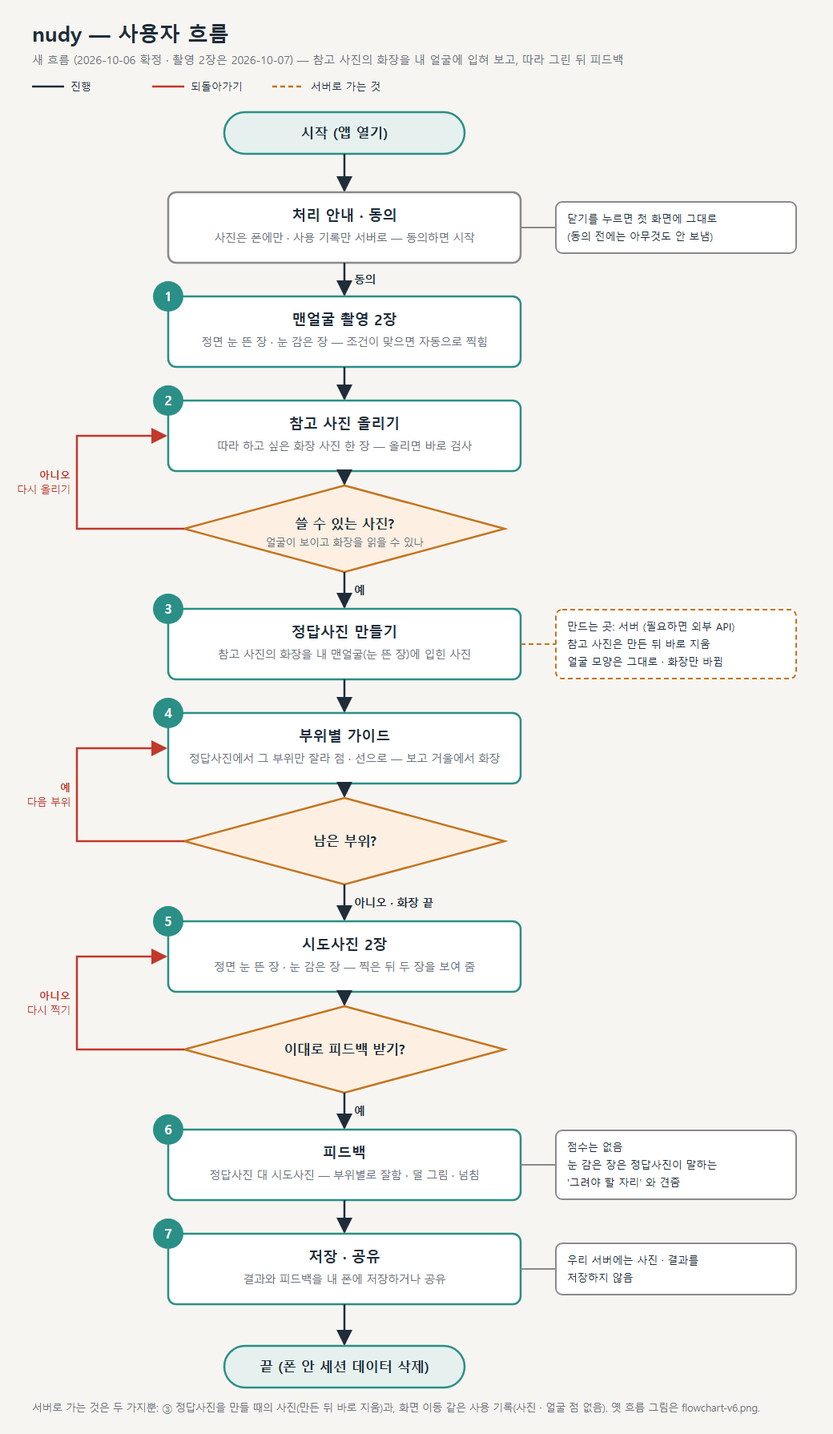
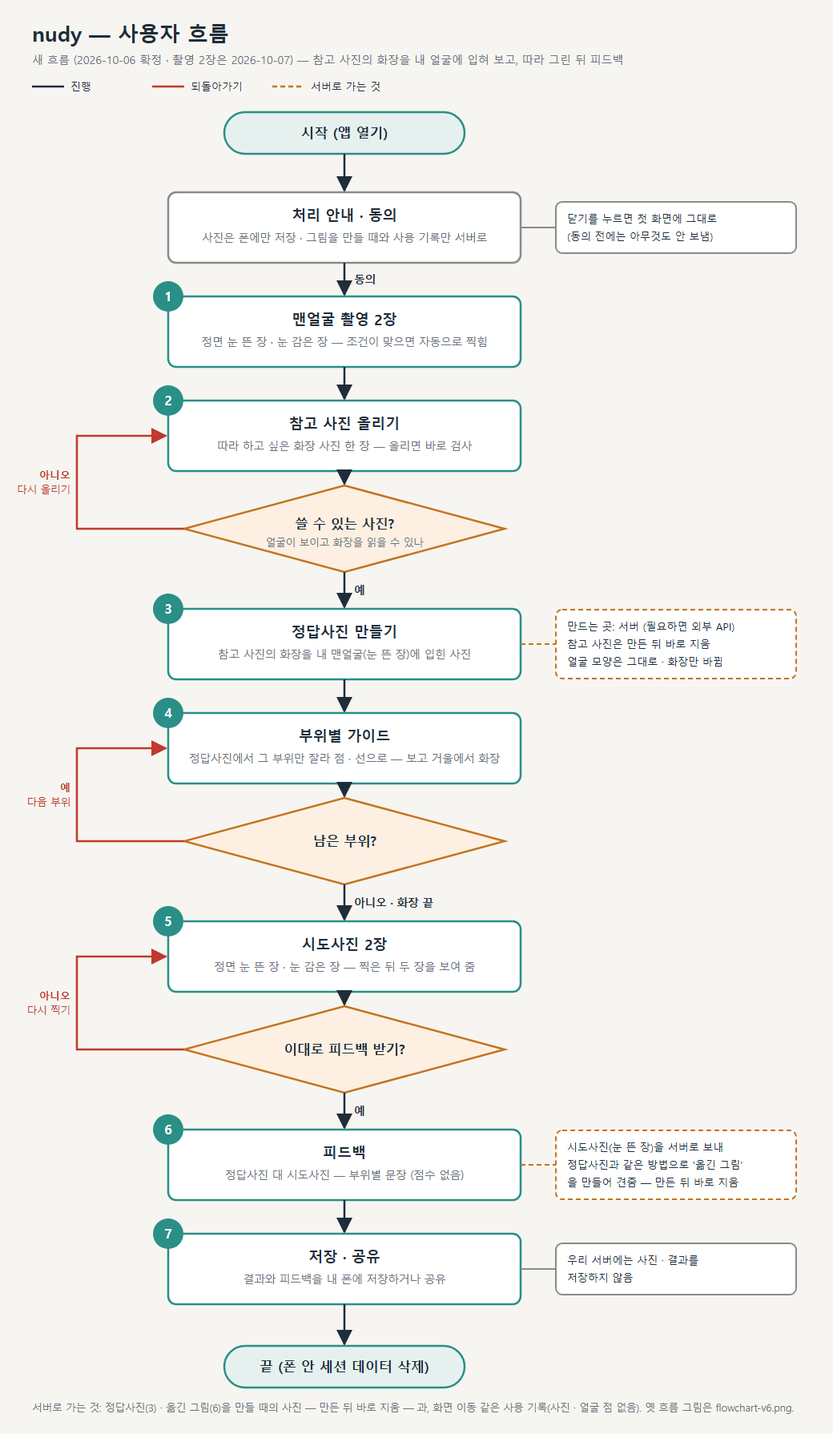
[app] 시도사진 — 원본 크기로 · 눈 뜬 장은 다섯 장 묶음 (피드백이 받는 그림 조건 #328)
- 사진을 줄이지 않는다. 전에는 긴 변 1024 로 줄여 넘겼는데 얼굴 점 · 크기는 촬영 크기 그대로라 서로 어긋났고,
  맨얼굴(원본 크기)과 견줄 때 라이너 꼬리가 사라진다 (#328 지킬 것 3 · #240)
- 눈 뜬 장은 셔터 뒤 조건을 통과한 장면을 80ms 간격으로 더 모아 다섯 장 묶음 — 피드백(③)이 값마다 가운데 값을 쓴다.
  1.5초 안에 못 모으면 모은 만큼. 감은 장은 한 장. 찍혔다는 소리는 묶음을 다 모은 뒤에
- AttemptShots 는 종류마다 장 배열 ([0] 이 셔터 장). 미리보기는 종류마다 첫 장
- core/attempt.ts: ATTEMPT_BURST · startAttemptBurst · attemptBurstStep (순수 함수)
- 문서: 서비스 정의서 — 시도사진 눈 뜬 장이 "옮긴 그림" 을 만들려고 서버로 간다(만든 뒤 바로 지움, 2026-10-07 결정) ·
  제품 추천은 넣기로(#325). 플로우차트도 같이
- 테스트: attempt AR3 · AR4, attempt-screen AS8(5장 · 1장) · AS9(안 줄임) · AS10(묶음 중 눈 감으면 안 넣음), AS2 · AS6 갱신

Claude-Session: https://claude.ai/code/session_012idKwLFK9yrkHjY4MQEBoN

diff --git a/client/src/screens/attempt.ts b/client/src/screens/attempt.ts
@@ -4,11 +4,12 @@
  * 화면 1 촬영(①, screens/capture.ts)과 따로 만들었다. 판정은 ① 의 core 를 그대로 쓴다 (core/attempt.ts — capture-run · shotGate).
  * 카메라는 화면 6 정면 1장(review-shot.ts)과 같은 방식: 공용 카메라 루프(새 장면에만 얼굴 찾기, #245) · 켤 때·끌 때 잠금 풀기(#267).
  * 맨얼굴 대비 밝기 · 색은 막지 않는다 — 조명이 달라졌으면 피드백(③)이 판단할 일이다.
- * 두 장을 다 찍으면 카메라를 끄고 미리보기 — "다시 찍기"(눈 뜬 장부터) 또는 "이대로 피드백 받기"(사진 · 얼굴 점을 넘기고 6 피드백으로).
+ * 눈 뜬 장은 다섯 장 묶음(#328 — 피드백이 값마다 가운데 값을 쓴다), 감은 장은 한 장. 사진은 줄이지 않는다 — 맨얼굴과 같은 원본 크기.
+ * 두 종류를 다 찍으면 카메라를 끄고 미리보기 — "다시 찍기"(눈 뜬 장부터) 또는 "이대로 피드백 받기"(사진 · 얼굴 점을 넘기고 6 피드백으로).
  */
 
 import type { FaceLandmarker, FaceLandmarkerResult } from "@mediapipe/tasks-vision";
-import { ATTEMPT_SHOTS, startAttemptRun, type AttemptShotId } from "@core/attempt";
+import { ATTEMPT_SHOTS, attemptBurstStep, startAttemptBurst, startAttemptRun, type AttemptBurst, type AttemptShotId } from "@core/attempt";
 import { runStep, STEP_TEXT, type RunState } from "@core/capture-run";
 import { eyeWidthPxOf, eyesClosed, faceCropOf, faceInsetOf, faceRatioOf, yawFromLandmarks } from "@core/capture-measure";
 import type { ShotMeasure } from "@core/flow";
@@ -17,18 +18,19 @@ import type { Pt } from "@core/types";
 import { releaseCameraLocks } from "./camera-locks";
 import { startFrameLoop } from "./camera-loop";
 import { foreheadLabOf, grabFrame, sharpnessOf } from "./frame-measure";
-import { encodeForStore } from "./image-encode";
+import { BARE_MAX_SIDE, encodeForStore } from "./image-encode";
 import { createLandmarker } from "./landmarker";
 import type { Screen, ScreenContext } from "./shell";
 
-/** 한 장 — 사진(JPEG) · 얼굴 점(사진 px) · 사진 크기. 피드백(③)이 맨얼굴 · 정답사진과 맞춰 비교한다 */
+/** 한 장 — 사진(원본 크기) · 얼굴 점(사진 px) · 사진 크기. 피드백(③)이 맨얼굴 · 정답사진과 맞춰 비교한다 */
 export interface AttemptShot {
   blob: Blob;
   lm: Pt[];
   w: number;
   h: number;
 }
-export type AttemptShots = Record<AttemptShotId, AttemptShot>;
+/** 종류마다 장 묶음 — [0] 이 셔터 장. 눈 뜬 장은 다섯 장까지, 감은 장은 한 장 (core/attempt ATTEMPT_BURST) */
+export type AttemptShots = Record<AttemptShotId, AttemptShot[]>;
 
 export interface AttemptDeps {
   /** 두 장을 다 찍으면 부른다 (세션 · 폰 저장은 부르는 쪽) */
@@ -99,7 +101,7 @@ export function attemptScreen<S>(deps: AttemptDeps): Screen<S> {
         for (const [id, label] of [["front_open", ATTEMPT_TEXT.openLabel], ["front_closed", ATTEMPT_TEXT.closedLabel]] as const) {
           const fig = el("figure");
           const img = el("img");
-          const url = URL.createObjectURL(shots[id].blob);
+          const url = URL.createObjectURL(shots[id][0]!.blob);   // 종류마다 셔터 장만 보여 준다
           previewUrls.push(url);
           img.src = url;
           img.alt = label;
@@ -191,12 +193,34 @@ export function attemptScreen<S>(deps: AttemptDeps): Screen<S> {
             const m = await createLandmarker("VIDEO");
             if (!on) { m.close(); return; }
             lmk = m;
-            const taken: Partial<Record<AttemptShotId, { cv: HTMLCanvasElement; lm: Pt[]; w: number; h: number }>> = {};
+            const taken: Partial<Record<AttemptShotId, { cv: HTMLCanvasElement; lm: Pt[]; w: number; h: number }[]>> = {};
             let run: RunState = startAttemptRun(taken, performance.now());
+            /** 셔터 뒤 묶음을 모으는 중 — 다 모으면 다음 장으로 */
+            let burst: AttemptBurst | null = null, frames: { cv: HTMLCanvasElement; lm: Pt[]; w: number; h: number }[] = [];
+            const finishShot = (now: number): void => {
+              const shot = burst!.shot;
+              taken[shot] = frames;
+              burst = null; frames = [];
+              shutterCue(shot === "front_closed");
+              ctx.log.log({ name: "button", button: `attempt_shot:${shot}` });
+              run = startAttemptRun(taken, now);
+              if (run.shot) { step.textContent = STEP_TEXT[run.shot]; return; }
+              // 두 종류 다 — 카메라를 끄고 미리보기
+              stop();
+              step.textContent = "";
+              line.textContent = ATTEMPT_TEXT.saving;
+              // 줄이지 않는다 — 얼굴 점이 촬영 크기 기준이고, 줄이면 라이너 꼬리가 사라진다 (#328 · #240)
+              void Promise.all(ATTEMPT_SHOTS.map(async (id) => {
+                const list = await Promise.all(taken[id]!.map(async (t) => ({ blob: (await encodeForStore(t.cv, BARE_MAX_SIDE)).blob, lm: t.lm, w: t.w, h: t.h })));
+                return [id, list] as const;
+              })).then((pairs) => {
+                if (alive) preview(Object.fromEntries(pairs) as AttemptShots);
+              }, (e: unknown) => { if (alive) failed(e); });
+            };
             line.textContent = "";
             // now = 공용 루프가 주는 늘어나기만 하는 시각 — 얼굴 찾기와 촬영 대기 시간이 같이 쓴다
             const frame = (now: number): void => {
-              if (!on || !lmk || !run.shot) return;
+              if (!on || !lmk || (!run.shot && !burst)) return;
               if (video.readyState < 2) return;
               const sw = video.videoWidth, sh = video.videoHeight;
               const res: FaceLandmarkerResult = lmk.detectForVideo(video, now);
@@ -215,29 +239,25 @@ export function attemptScreen<S>(deps: AttemptDeps): Screen<S> {
                   sharpness: sharpnessOf(video, faceCropOf(lm, sw, sh)),
                 });
               }
+              if (burst) {
+                const b = attemptBurstStep(burst, ms, now);
+                burst = b.state;
+                if (b.take && lm) frames.push({ cv: grabFrame(video), lm, w: sw, h: sh });
+                if (burst.done) finishShot(now);
+                return;
+              }
               const shot = run.shot;
+              if (!shot) return;
               const r = runStep(run, ms, now);
               run = r.state;
               line.textContent = r.hint ?? r.gate?.text ?? "";
               line.classList.toggle("ready", !!r.gate?.ok);
               oval.classList.toggle("ready", !!r.gate?.ok);
               if (!r.take || !lm) return;
-              taken[shot] = { cv: grabFrame(video), lm, w: sw, h: sh };
-              shutterCue(shot === "front_closed");
-              ctx.log.log({ name: "button", button: `attempt_shot:${shot}` });
-              run = startAttemptRun(taken, now);
-              if (run.shot) { step.textContent = STEP_TEXT[run.shot]; return; }
-              // 두 장 다 — 카메라를 끄고 미리보기
-              stop();
-              step.textContent = "";
-              line.textContent = ATTEMPT_TEXT.saving;
-              void Promise.all(ATTEMPT_SHOTS.map(async (id) => {
-                const t = taken[id]!;
-                const e = await encodeForStore(t.cv);
-                return [id, { blob: e.blob, lm: t.lm, w: t.w, h: t.h }] as const;
-              })).then((pairs) => {
-                if (alive) preview(Object.fromEntries(pairs) as AttemptShots);
-              }, (e: unknown) => { if (alive) failed(e); });
+              // 셔터 — 이 장이 묶음의 첫 장. 눈 뜬 장은 이어서 몇 장 더 모은다 (찍혔다는 소리는 다 모은 뒤에)
+              frames = [{ cv: grabFrame(video), lm, w: sw, h: sh }];
+              burst = startAttemptBurst(shot, now);
+              if (burst.done) finishShot(now);
             };
             // 카메라 새 장면에만 얼굴을 찾는다 (#245). 루프 안 오류는 바깥 try 가 못 잡는다
             stopLoop = startFrameLoop(video, frame, { onError: (e) => { stop(); if (alive) failed(e); } });

diff --git a/client/tests/attempt-screen.test.ts b/client/tests/attempt-screen.test.ts
@@ -26,10 +26,15 @@ vi.mock("@core/capture-measure", async (orig) => ({
 vi.mock("@screens/frame-measure", () => ({
   sharpnessOf: () => 400,
   foreheadLabOf: () => ({ skin: { L: 62, a: 12, b: 16 }, raw: { L: 62, a: 12, b: 16 } }),
-  grabFrame: () => document.createElement("canvas"),
+  grabFrame: () => { grabs++; return document.createElement("canvas"); },
 }));
 let encoded = 0;
-vi.mock("@screens/image-encode", () => ({ encodeForStore: async () => ({ blob: new Blob([`jpeg${++encoded}`]), w: 600, h: 600 }) }));
+let grabs = 0;
+let encodeSides: (number | undefined)[] = [];
+vi.mock("@screens/image-encode", () => ({
+  BARE_MAX_SIDE: Number.POSITIVE_INFINITY,
+  encodeForStore: async (_src: unknown, maxSide?: number) => { encodeSides.push(maxSide); return { blob: new Blob([`jpeg${++encoded}`]), w: 600, h: 600 }; },
+}));
 
 const ver: Versions = { app: "test", score: "s", look: "l", faceshape: "f", transfer: "t" };
 type Cb = (now: number) => void;
@@ -45,7 +50,7 @@ beforeEach(() => {
   // jsdom 에는 객체 URL 이 없다 — 만든 것 · 돌려준 것을 센다
   Object.assign(URL, { createObjectURL: () => { const u = `blob:t${urls.length}`; urls.push(u); return u; }, revokeObjectURL: (u: string) => { revoked.push(u); } });
   detect.mockClear();
-  eyes = "open"; frames = []; stopped = 0; encoded = 0;
+  eyes = "open"; frames = []; stopped = 0; encoded = 0; encodeSides = []; grabs = 0;
   const track = { stop: () => { stopped++; }, getCapabilities: () => ({}), getSettings: () => ({}), applyConstraints: async () => {} };
   Object.defineProperty(navigator, "mediaDevices", { value: { getUserMedia: async () => ({ getTracks: () => [track], getVideoTracks: () => [track] }) }, configurable: true });
   vi.spyOn(HTMLMediaElement.prototype, "play").mockImplementation(async () => {});
@@ -90,7 +95,7 @@ describe("화면 5 시도사진", () => {
 /** 시작해서 두 장을 찍는다 — 찍은 뒤 미리보기까지 */
 async function shootBoth(ctx: ScreenContext<null>, t0 = 1000): Promise<number> {
   eyes = "open";
-  let t = await run(t0, 2500);                    // 자리 잡기(1.5초) + 안정
+  let t = await run(t0, 3000);                    // 자리 잡기(1.5초) + 안정 + 다섯 장 묶음
   eyes = "closed";
   t = await run(t, 600);
   await vi.advanceTimersByTimeAsync(0);
@@ -103,8 +108,8 @@ const buttonOf = (ctx: ScreenContext<null>, text: string) => [...ctx.root.queryS
     await start(ctx);
     const line = () => ctx.root.querySelector(".cam-step")?.textContent;
     expect(line()).toBe(STEP_TEXT.front_open);
-    let t = await run(1000, 2500);                 // 자리 잡기(1.5초) + 안정
-    expect(line()).toBe(STEP_TEXT.front_closed);   // 첫 장이 찍혀 감은 장 차례
+    let t = await run(1000, 3000);                 // 자리 잡기(1.5초) + 안정 + 다섯 장 묶음
+    expect(line()).toBe(STEP_TEXT.front_closed);   // 눈 뜬 묶음이 찍혀 감은 장 차례
     expect(setAttempt).not.toHaveBeenCalled();
     eyes = "closed";
     t = await run(t, 600);
@@ -122,7 +127,7 @@ const buttonOf = (ctx: ScreenContext<null>, text: string) => [...ctx.root.queryS
     expect(setAttempt).toHaveBeenCalledTimes(1);
     const shots = setAttempt.mock.calls[0]![0] as AttemptShots;
     expect(Object.keys(shots).sort()).toEqual(["front_closed", "front_open"]);
-    for (const s of Object.values(shots)) {
+    for (const s of Object.values(shots).flat()) {
       expect(s.blob).toBeInstanceOf(Blob);
       expect(s.lm).toHaveLength(LMS.length);
       expect([s.w, s.h]).toEqual([600, 600]);
@@ -146,8 +151,9 @@ const buttonOf = (ctx: ScreenContext<null>, text: string) => [...ctx.root.queryS
     await vi.advanceTimersByTimeAsync(0);
     expect(setAttempt).toHaveBeenCalledTimes(1);
     const shots = setAttempt.mock.calls[0]![0] as AttemptShots;
-    expect(await shots.front_open.blob.text()).toBe("jpeg3");   // 다시 찍은 것 (앞 두 장은 jpeg1 · jpeg2)
-    expect(await shots.front_closed.blob.text()).toBe("jpeg4");
+    // 다시 찍은 것 — 앞 묶음(눈 뜬 5장 + 감은 1장)은 jpeg1~6
+    expect(await Promise.all(shots.front_open.map((s) => s.blob.text()))).toEqual(["jpeg7", "jpeg8", "jpeg9", "jpeg10", "jpeg11"]);
+    expect(await Promise.all(shots.front_closed.map((s) => s.blob.text()))).toEqual(["jpeg12"]);
   });
 
   it("AS7 '이대로 피드백 받기' 를 두 번 눌러도 한 번만 넘긴다", async () => {
@@ -159,6 +165,43 @@ const buttonOf = (ctx: ScreenContext<null>, text: string) => [...ctx.root.queryS
     await vi.advanceTimersByTimeAsync(0);
     expect(setAttempt).toHaveBeenCalledTimes(1);
     expect(ctx.go).toHaveBeenCalledTimes(1);
+  });
+
+  it("AS8 눈 뜬 장은 다섯 장 묶음 · 감은 장은 한 장 — 피드백(③)이 값마다 가운데 값을 쓴다 (#328)", async () => {
+    const { ctx, setAttempt } = mount();
+    await start(ctx);
+    await shootBoth(ctx);
+    buttonOf(ctx, ATTEMPT_TEXT.confirm)!.click();
+    await vi.advanceTimersByTimeAsync(0);
+    const shots = setAttempt.mock.calls[0]![0] as AttemptShots;
+    expect(shots.front_open).toHaveLength(5);
+    expect(shots.front_closed).toHaveLength(1);
+    expect(ctx.root.querySelectorAll(".attempt-preview img")).toHaveLength(2);   // 미리보기는 종류마다 첫 장만
+  });
+
+  it("AS9 사진을 줄이지 않는다 — 맨얼굴과 같은 원본 크기 (줄이면 얼굴 점과 크기가 어긋나고 라이너 꼬리가 사라진다, #328 · #240)", async () => {
+    const { ctx } = mount();
+    await start(ctx);
+    await shootBoth(ctx);
+    expect(encodeSides).toHaveLength(6);
+    expect(encodeSides.every((s) => s === Number.POSITIVE_INFINITY)).toBe(true);
+  });
+
+  it("AS10 묶음을 모으는 동안 눈을 감으면 그 장면은 넣지 않고, 시간이 지나면 모은 만큼으로 넘어간다", async () => {
+    const { ctx, setAttempt } = mount();
+    await start(ctx);
+    // 셔터(첫 장을 잡는 순간)까지만 눈을 뜨고, 그 뒤로는 계속 감는다
+    let t = 1000;
+    for (; grabs === 0 && t < 6000; t += 33) fire(t);
+    expect(grabs).toBe(1);
+    eyes = "closed";
+    await run(t, 2500);                            // 묶음 제한 시간(1.5초)이 지나 감은 장으로 넘어가고, 감은 장도 찍힌다
+    await vi.advanceTimersByTimeAsync(0);
+    buttonOf(ctx, ATTEMPT_TEXT.confirm)!.click();
+    await vi.advanceTimersByTimeAsync(0);
+    const shots = setAttempt.mock.calls[0]![0] as AttemptShots;
+    expect(shots.front_open).toHaveLength(1);      // 눈 감은 장면은 눈 뜬 묶음에 안 들어간다
+    expect(shots.front_closed).toHaveLength(1);
   });
 
   it("AS3 눈을 감지 않으면 감은 장을 찍지 않는다 — 넘어가지 않는다", async () => {

diff --git a/client/tests/attempt.test.ts b/client/tests/attempt.test.ts
@@ -1,7 +1,8 @@
 // 화면 5 시도사진 (2026-10-06 새 흐름, ⑥) — 화장을 다 한 뒤 정면 눈 뜬 장 · 감은 장 두 장만.
 // 판정 · 장 순서는 화면 1 과 같은 규칙(① capture-run · shotGate)을 쓴다
 import { describe, expect, it } from "vitest";
-import { ATTEMPT_SHOTS, startAttemptRun } from "@core/attempt";
+import { ATTEMPT_BURST, ATTEMPT_SHOTS, attemptBurstStep, startAttemptBurst, startAttemptRun } from "@core/attempt";
+import type { ShotMeasure } from "@core/flow";
 
 describe("시도사진 장 순서", () => {
   it("AR1 정면 눈 뜬 장 → 감은 장 두 장뿐", () => {
@@ -14,5 +15,33 @@ describe("시도사진 장 순서", () => {
   it("AR2 첫 장(눈 뜬)은 화면 1 기준 장처럼 카메라가 자리 잡기를 기다린다 — 감은 장은 안 기다린다", () => {
     expect(startAttemptRun({}, 0).settle).not.toBeNull();
     expect(startAttemptRun({ front_open: {} }, 0).settle).toBeNull();
+  });
+
+  const OK: ShotMeasure = { faceDetected: true, yaw: 0, pitch: 0, closedA: false, closedB: false, faceRatio: 0.5, faceInset: 0.1, eyeWidthPx: 120, sharpness: 400, foreheadL: 62 };
+
+  it("AR3 눈 뜬 장은 다섯 장 묶음, 감은 장은 한 장 — 첫 장(셔터)이 이미 한 장", () => {
+    expect(ATTEMPT_BURST.count).toEqual({ front_open: 5, front_closed: 1 });
+    expect(startAttemptBurst("front_closed", 0).done).toBe(true);
+    let b = startAttemptBurst("front_open", 0);
+    expect(b.done).toBe(false);
+    let takes = 0;
+    for (let t = 33; t < 2000 && !b.done; t += 33) {
+      const r = attemptBurstStep(b, OK, t);
+      b = r.state;
+      if (r.take) takes++;
+    }
+    expect(takes).toBe(4);   // 셔터 한 장 + 넷
+    expect(b.done).toBe(true);
+  });
+
+  it("AR4 묶음은 조건(정면 · 눈 · 크기 · 선명)을 통과한 장면만, 너무 붙은 장면은 건너뛰고, 제한 시간이 지나면 모은 만큼으로 끝", () => {
+    const b0 = startAttemptBurst("front_open", 0);
+    expect(attemptBurstStep(b0, OK, ATTEMPT_BURST.minGapMs - 1).take).toBe(false);           // 너무 붙음
+    expect(attemptBurstStep(b0, { ...OK, closedA: true, closedB: true }, 200).take).toBe(false);   // 눈 감음
+    expect(attemptBurstStep(b0, { ...OK, yaw: 30 }, 200).take).toBe(false);                   // 고개 돌림
+    expect(attemptBurstStep(b0, { ...OK, faceDetected: false }, 200).take).toBe(false);
+    expect(attemptBurstStep(b0, OK, 200).take).toBe(true);
+    const late = attemptBurstStep(b0, { ...OK, closedA: true, closedB: true }, ATTEMPT_BURST.maxMs);
+    expect(late).toMatchObject({ take: false, state: { done: true } });
   });
 });

diff --git a/client/src/core/attempt.ts b/client/src/core/attempt.ts
@@ -7,7 +7,7 @@
  */
 
 import { startRun, type RunState } from "./capture-run";
-import { SHOTS, type ShotId } from "./flow";
+import { SHOTS, shotGate, type ShotId, type ShotMeasure } from "./flow";
 
 export type AttemptShotId = ShotId;
 
@@ -17,4 +17,37 @@ export const ATTEMPT_SHOTS: readonly AttemptShotId[] = SHOTS.map((s) => s.id);
 /** 이미 찍은 장을 넘기면 다음 장부터. 다 찍었으면 shot 이 null */
 export function startAttemptRun(taken: Partial<Record<AttemptShotId, unknown>>, now: number): RunState {
   return startRun(taken, now);
+}
+
+/**
+ * 한 번 찍을 때 모으는 장 수 (2026-10-07, #328). 눈 뜬 장은 다섯 장 묶음 — 피드백(③)이 값마다 가운데 값을 써서 한 장의 흔들림을 줄인다.
+ * 감은 장은 한 장 (눈을 감고 기다리는 시간을 늘리지 않는다).
+ * minGapMs: 묶음 안 장면 사이 간격 · maxMs: 셔터 뒤 이만큼 지나면 모은 만큼으로 끝 (눈을 감거나 움직여도 멈추지 않게)
+ */
+export const ATTEMPT_BURST = { count: { front_open: 5, front_closed: 1 } as Record<AttemptShotId, number>, minGapMs: 80, maxMs: 1500 } as const;
+
+export interface AttemptBurst {
+  shot: AttemptShotId;
+  /** 셔터 시각 — 그 장이 묶음의 첫 장 */
+  startedAt: number;
+  /** 마지막으로 넣은 장면의 시각 */
+  lastAt: number;
+  /** 지금까지 모은 장 수 (셔터 장 포함) */
+  got: number;
+  done: boolean;
+}
+
+/** 셔터가 눌린 순간 — 그 장이 첫 장. 한 장만 모으는 장이면 바로 끝 */
+export function startAttemptBurst(shot: AttemptShotId, now: number): AttemptBurst {
+  return { shot, startedAt: now, lastAt: now, got: 1, done: ATTEMPT_BURST.count[shot] <= 1 };
+}
+
+/** 셔터 뒤 장면마다. 조건(안정 빼고)을 통과하고 앞 장과 간격이 있으면 take. 다 모았거나 시간이 지나면 done */
+export function attemptBurstStep(b: AttemptBurst, m: ShotMeasure, now: number, opt = ATTEMPT_BURST): { state: AttemptBurst; take: boolean } {
+  if (b.done) return { state: b, take: false };
+  if (now - b.startedAt >= opt.maxMs) return { state: { ...b, done: true }, take: false };
+  const ok = now - b.lastAt >= opt.minGapMs && shotGate(b.shot, { ...m, stableCount: Number.MAX_SAFE_INTEGER }).ok;
+  if (!ok) return { state: b, take: false };
+  const got = b.got + 1;
+  return { state: { ...b, lastAt: now, got, done: got >= opt.count[b.shot] }, take: true };
 }

diff --git a/client/src/main.ts b/client/src/main.ts
@@ -357,9 +357,9 @@ function registerFlowSlots(shell: ReturnType<typeof createShell<Session>>, deps:
     owner: "③",
     todo: [
       "정답사진 대 시도사진 — 부위별로 어느 부분이 어떻게 됐나 (잘함 / 덜 그림 / 넘침). 점수 없음",
-      "시도사진은 main.ts 의 getAttempt() — 눈 뜬 장 · 감은 장, 사진 · 얼굴 점 · 크기 (screens/attempt.ts AttemptShots)",
+      "시도사진은 main.ts 의 getAttempt() — 눈 뜬 장 묶음(5장까지) · 감은 장, 장마다 사진(원본 크기) · 얼굴 점 · 크기 (screens/attempt.ts AttemptShots)",
     ],
-    status: () => (deps.getAttempt() ? "시도사진 2장 받음" : "시도사진 없음 — 앱을 다시 켰으면 다시 찍어야 해요"),
+    status: () => { const a = deps.getAttempt(); return a ? `시도사진 받음 — 눈 뜬 장 ${a.front_open.length}장 · 감은 장 ${a.front_closed.length}장` : "시도사진 없음 — 앱을 다시 켰으면 다시 찍어야 해요"; },
     next: "save",
   }));
   shell.register("save", saveSlot<Session>(deps));

diff --git a/docs/service-definition-v6.md b/docs/service-definition-v6.md
@@ -109,12 +109,12 @@
 
 **한다**: 맨얼굴 두 장 촬영(눈 뜬 · 감은), 참고 사진 업로드와 검사, 정답사진 생성(참고 사진의 화장을 내 얼굴에), 부위별 정지 사진 가이드(점 · 선), 시도사진 두 장 촬영, 정답 대 시도 부위별 피드백(점수 없음), 결과 · 피드백 폰 저장 · 공유, 모바일 웹.
 
-**하지 않는다**: 정해진 화장 템플릿 목록, 실시간 AR 입혀 보기, 부위별 중간 확인 · 부위 점수 · 합산 점수, 얼굴을 재서 화장 모양을 바꾸는 개인화, 눈 감은 정답사진 생성, 바르는 도중 실시간 채점, 우리 서버에 사진 · 결과 저장, 다른 사람 사진 보관, 피부 진단, 브랜드 · 상품명 추천, 결과 화면에 숫자 표시.
+**하지 않는다**: 정해진 화장 템플릿 목록, 실시간 AR 입혀 보기, 부위별 중간 확인 · 부위 점수 · 합산 점수, 얼굴을 재서 화장 모양을 바꾸는 개인화, 눈 감은 정답사진 생성, 바르는 도중 실시간 채점, 우리 서버에 사진 · 결과 저장, 다른 사람 사진 보관, 피부 진단, 결과 화면에 숫자 표시. (제품 추천은 2026-10-07 넣기로 — 색 계열에 맞는 제품을 보여 주되 호수는 말하지 않고, 제품 사진은 출처를 남긴다 #325)
 
 ## 10. 원칙
 
 - **정직한 피드백**: 못 재는 건 말하지 않는다 — "확인만". 정답사진에 정보가 없는 곳(쌍꺼풀 안쪽 등)도 확인만.
-- **사진은 내 폰에**: 맨얼굴 · 시도사진 · 결과는 내 폰에만 둔다. 정답사진을 만들려고 서버(학원 PC 또는 외부 API)로 보내는 것은 맨얼굴 눈 뜬 사진과 참고 사진뿐이고, 저장하지 않는다. 외부 API 를 쓰게 되면 동의 화면에 그 회사로 간다고 적고, 저장 · 학습에 쓰지 않는 조건인지 확인한다.
+- **사진은 내 폰에**: 맨얼굴 · 시도사진 · 결과는 내 폰에만 **둔다**. 서버(학원 PC 또는 외부 API)로 **보내는** 것은 그림을 만들 때뿐이고, 만든 뒤 바로 지운다 — ① 정답사진: 맨얼굴 눈 뜬 사진 + 참고 사진, ② 옮긴 그림(2026-10-07 결정): 맨얼굴 눈 뜬 사진 + 시도사진 눈 뜬 장. 옮긴 그림은 시도사진의 화장을 정답사진과 같은 방법으로 맨얼굴에 옮긴 것으로, 이게 없으면 피드백이 정답사진과 시도사진을 같은 잣대로 견주지 못한다 (`feedback-input-contract.md`). 사용 기록(어느 화면까지 갔는지 — 사진 · 얼굴 점 없음)은 서버로 모은다. 외부 API 를 쓰게 되면 동의 화면에 그 회사로 간다고 적고, 저장 · 학습에 쓰지 않는 조건인지 확인한다.
 - **다른 사람 사진은 바로 지운다**: 참고 사진은 정답사진을 만든 뒤 바로 지운다. 저장 · 공유에 들어가지 않는다.
 - **얼굴은 그대로**: 정답사진은 화장만 옮기고 얼굴 모양을 바꾸지 않는다.
 
